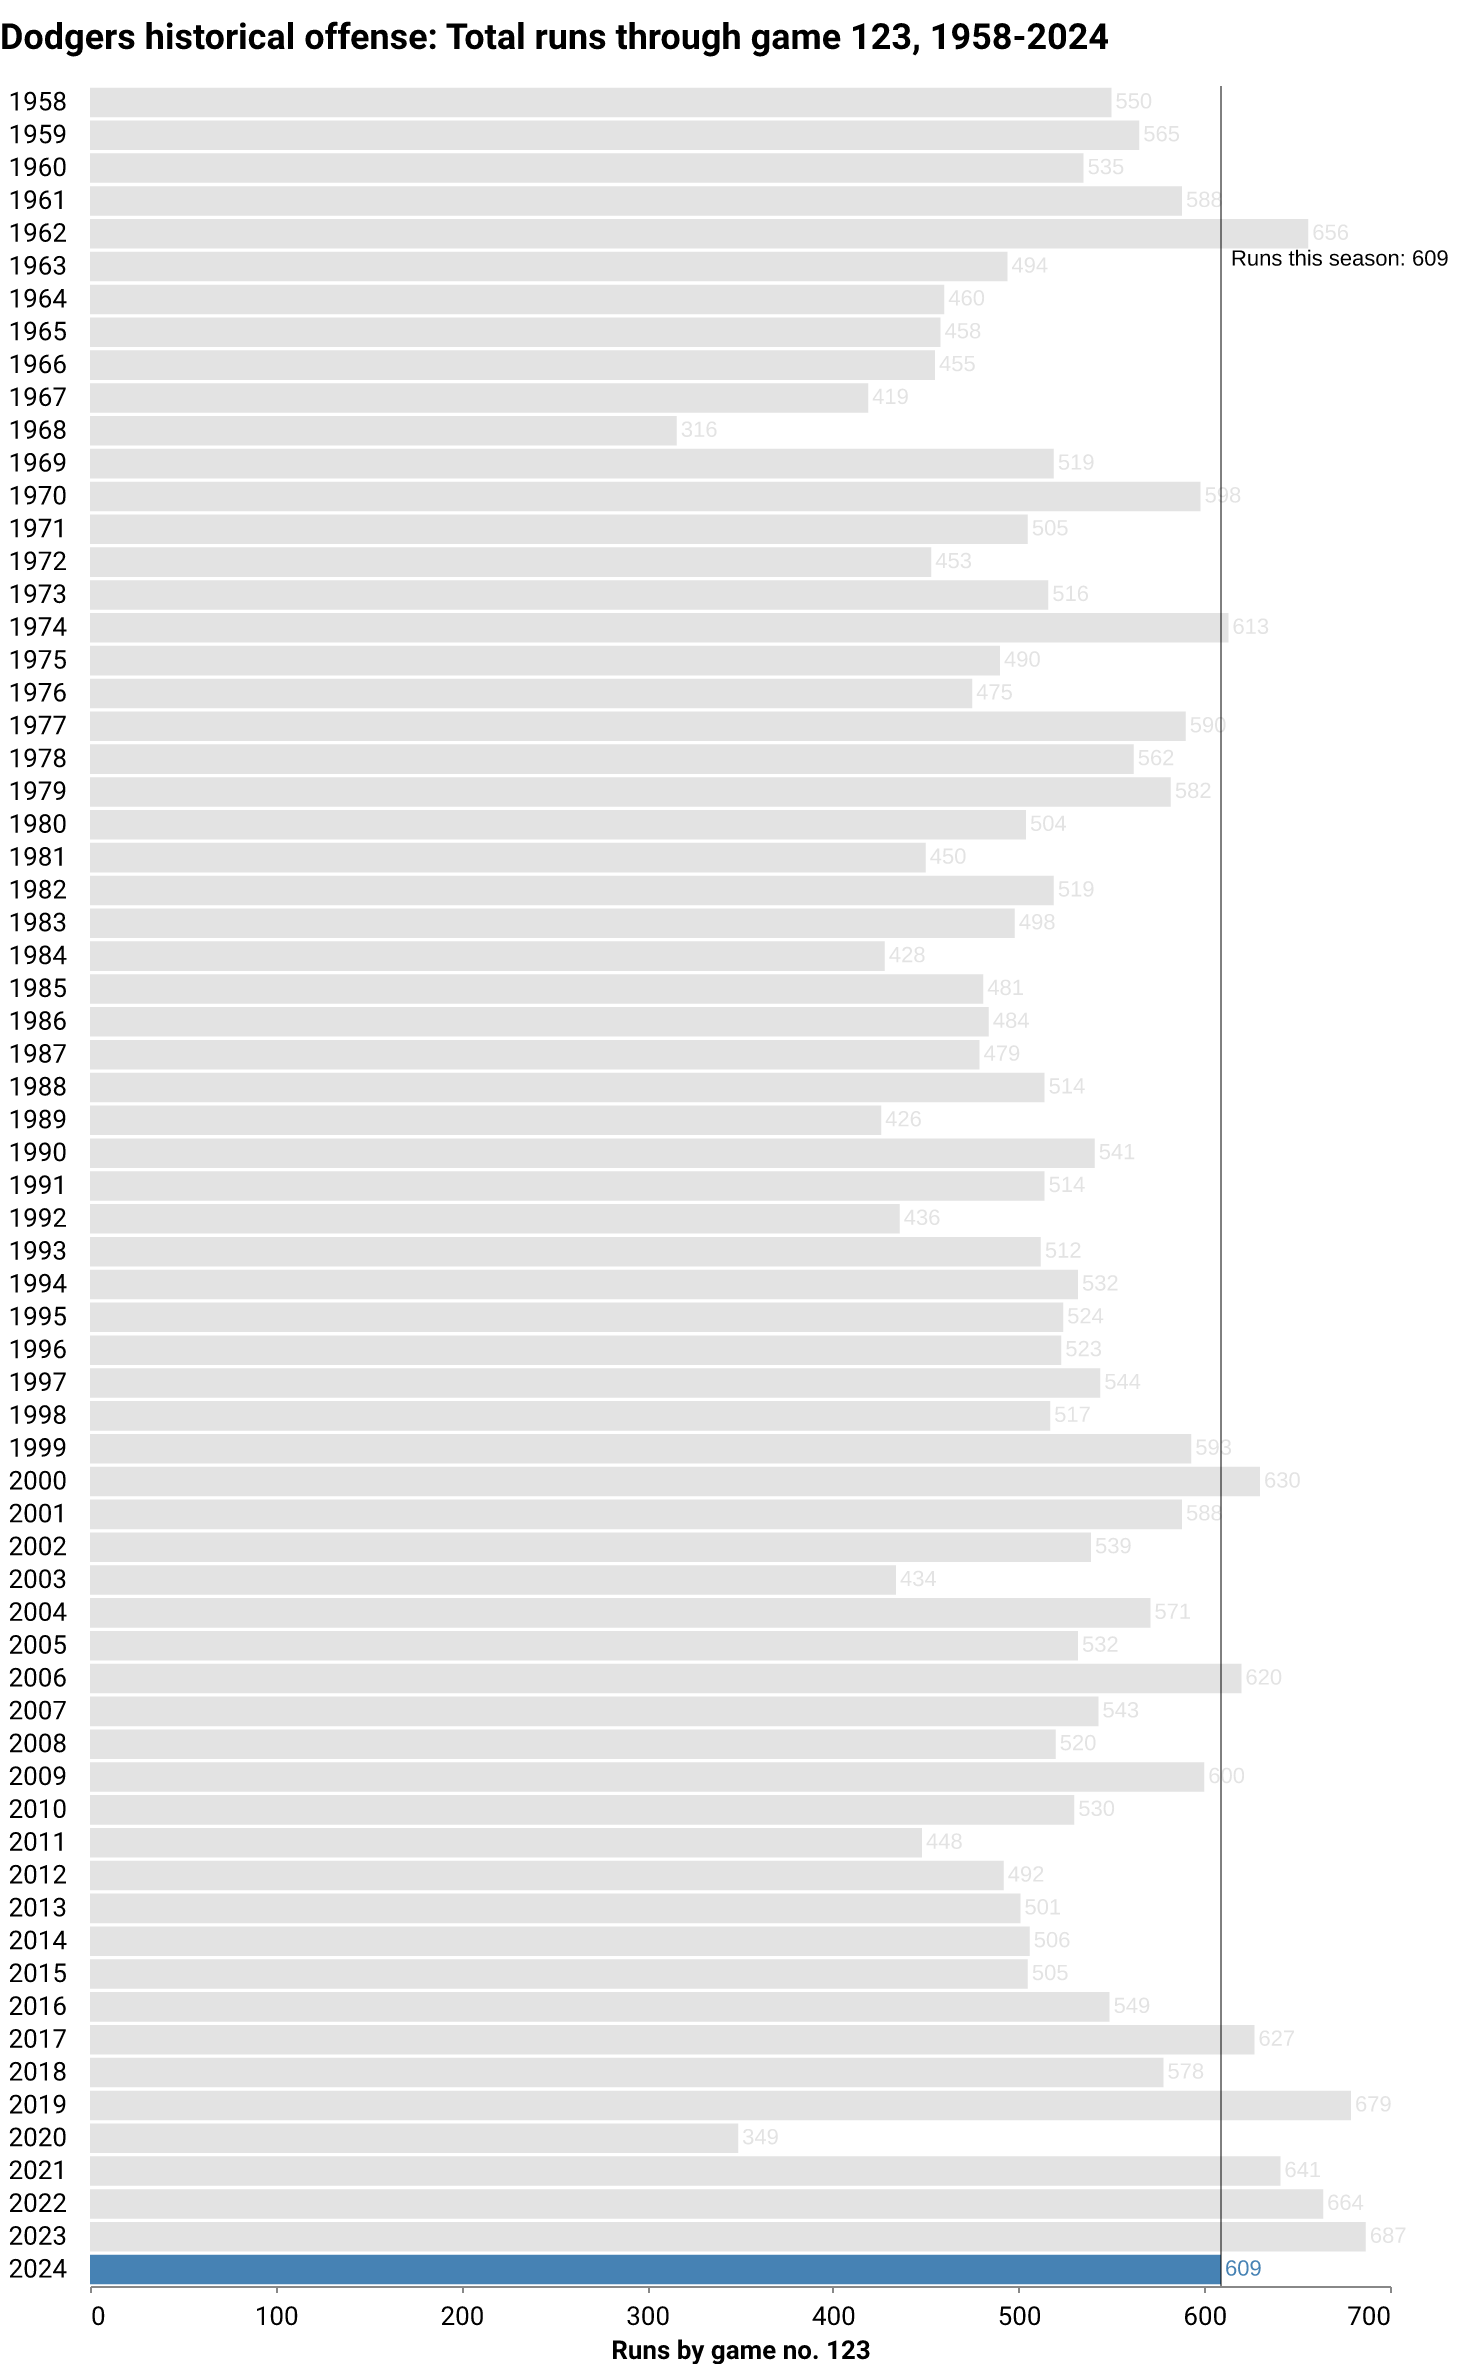
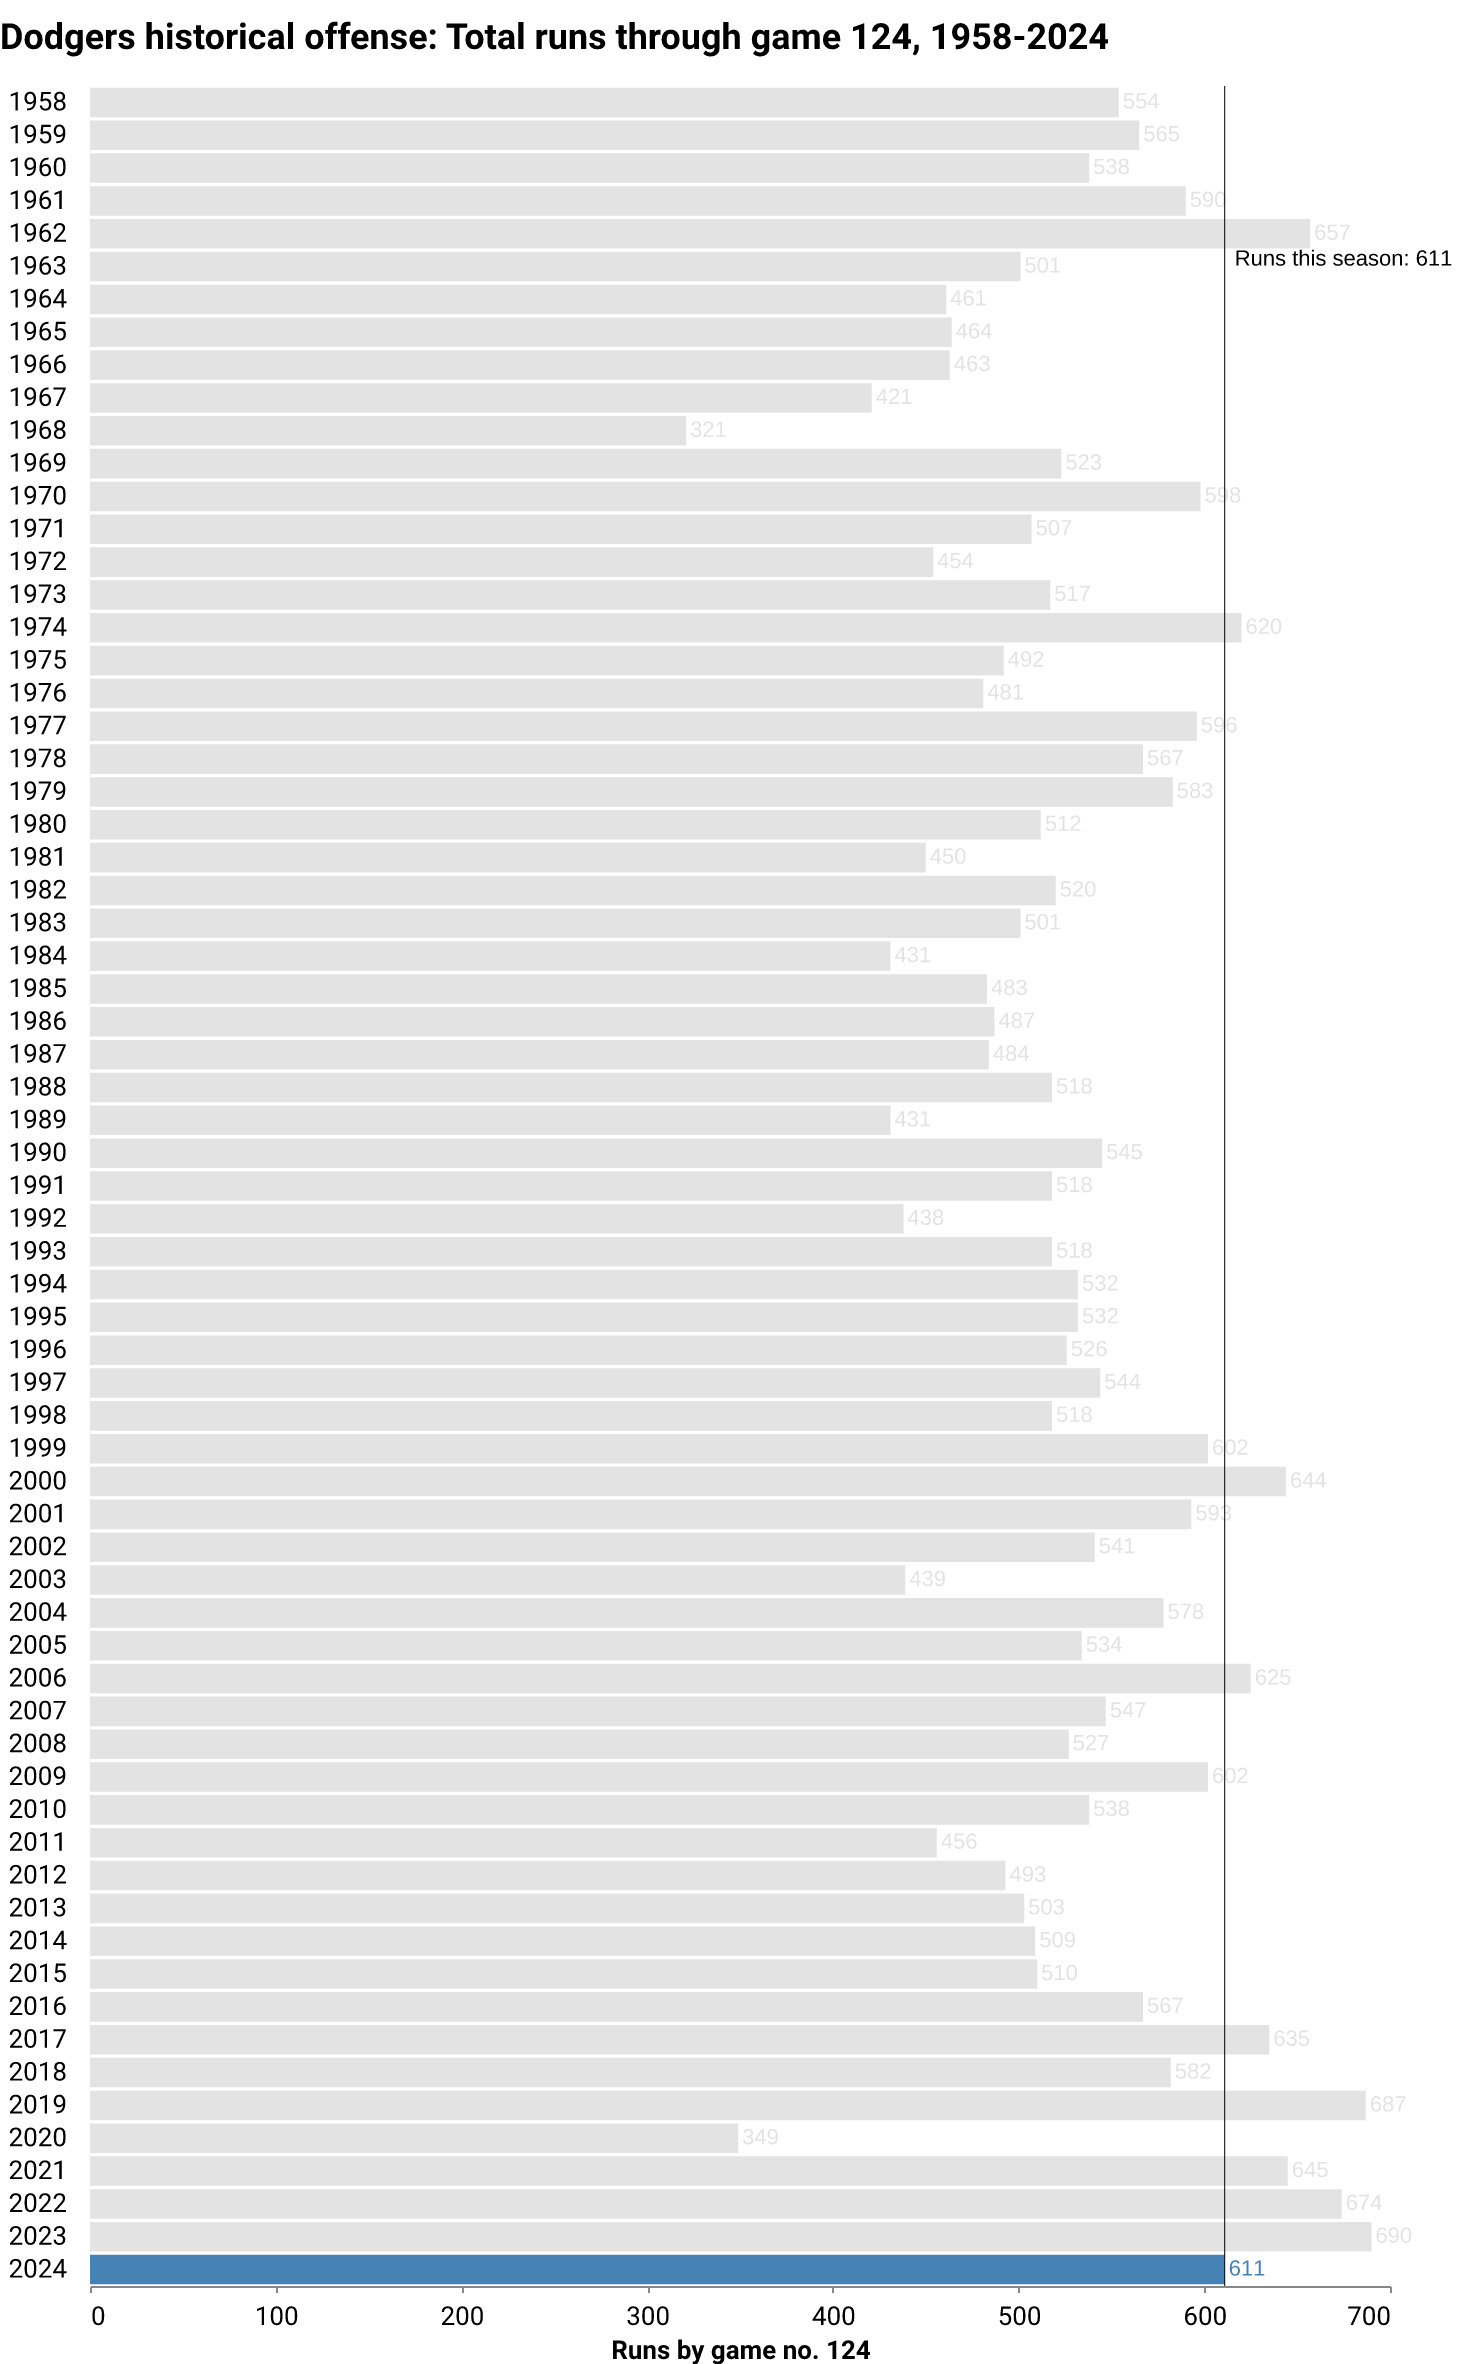
deploy: 2c9230f8b08d46898f5953f9c6615bfd0dc1a40b

diff --git a/index.html b/index.html
@@ -177,14 +177,14 @@
     
     
     
-        <i class="fa-solid fa-arrow-trend-up" style="color: #005a9c;"></i>
+        <i class="fa-solid fa-arrow-trend-down" style="color: #ef3e42;"></i>
     
 </div>
 <h1 class="headline">How are the Dodgers doing?</h1>
 <p class="subhead">
     
     
-    <span class="highlight">LOS ANGELES</span> <span class="updated">(August 18)</span> — After <span class="highlight">123</span> games this season, the Dodgers are in <span class="highlight">1st</span> place in the National League West division. The team has compiled a <span class="highlight">72-51</span> record, winning <span class="highlight">59%</span> of its games so far. The last game was a <span class="highlight">7-6</span> away <span class="highlight">win</span> against the St. Louis Cardinals in front of <span class="highlight">38,485</span> fans. They've won <span class="highlight">6 of the last 10</span>.
+    <span class="highlight">LOS ANGELES</span> <span class="updated">(August 18)</span> — After <span class="highlight">124</span> games this season, the Dodgers are in <span class="highlight">1st</span> place in the National League West division. The team has compiled a <span class="highlight">72-52</span> record, winning <span class="highlight">57%</span> of its games so far. The last game was a <span class="highlight">2-5</span> away <span class="highlight">loss</span> against the St. Louis Cardinals in front of <span class="highlight">41,929</span> fans. They've won <span class="highlight">6 of the last 10</span>.
 </p>
 </div>
 
@@ -222,10 +222,10 @@
             Losses
           </div>
           <div class="card-body">
-            <p class="card-text">51</p>
+            <p class="card-text">52</p>
           </div>
           <div class="card-footer text-muted">
-        This point last season: 47
+        This point last season: 48
           </div>
         </div>
       </div>
@@ -238,10 +238,10 @@
             Record
           </div>
           <div class="card-body">
-            <p class="card-text">72-51</p>
+            <p class="card-text">72-52</p>
           </div>
           <div class="card-footer text-muted">
-        This point last season: 76-47
+        This point last season: 76-48
           </div>
         </div>
       </div>
@@ -254,10 +254,10 @@
             Win percentage
           </div>
           <div class="card-body">
-            <p class="card-text">59%</p>
+            <p class="card-text">57%</p>
           </div>
           <div class="card-footer text-muted">
-        This point last season: 62%
+        This point last season: 61%
           </div>
         </div>
       </div>
@@ -270,7 +270,7 @@
             Games up/back
           </div>
           <div class="card-body">
-            <p class="card-text">3.0</p>
+            <p class="card-text">2.0</p>
           </div>
           <div class="card-footer text-muted">
         Division rank: 1
@@ -302,7 +302,7 @@
             Runs
           </div>
           <div class="card-body">
-            <p class="card-text">609</p>
+            <p class="card-text">611</p>
           </div>
           <div class="card-footer text-muted">
         League rank: 2
@@ -318,10 +318,10 @@
             Runs against
           </div>
           <div class="card-body">
-            <p class="card-text">506</p>
+            <p class="card-text">511</p>
           </div>
           <div class="card-footer text-muted">
-        This point last season: 544
+        This point last season: 552
           </div>
         </div>
       </div>
@@ -334,10 +334,10 @@
             Run differential
           </div>
           <div class="card-body">
-            <p class="card-text">103</p>
+            <p class="card-text">100</p>
           </div>
           <div class="card-footer text-muted">
-        This point last season: 143
+        This point last season: 138
           </div>
         </div>
       </div>
@@ -408,7 +408,7 @@
             Batting average
           </div>
           <div class="card-body">
-            <p class="card-text">.253</p>
+            <p class="card-text">.252</p>
           </div>
           <div class="card-footer text-muted">
         Last decade average: .253
@@ -424,7 +424,7 @@
             Home runs
           </div>
           <div class="card-body">
-            <p class="card-text">165</p>
+            <p class="card-text">166</p>
           </div>
           <div class="card-footer text-muted">
         League rank: 1
@@ -456,7 +456,7 @@
             On-base percentage
           </div>
           <div class="card-body">
-            <p class="card-text">.331</p>
+            <p class="card-text">.330</p>
           </div>
           <div class="card-footer text-muted">
         Last decade average: .332
@@ -472,10 +472,10 @@
             Stolen bases
           </div>
           <div class="card-body">
-            <p class="card-text">83</p>
+            <p class="card-text">85</p>
           </div>
           <div class="card-footer text-muted">
-        League rank: 9
+        League rank: 8
           </div>
         </div>
       </div>
@@ -488,7 +488,7 @@
             Stolen bases/game
           </div>
           <div class="card-body">
-            <p class="card-text">0.67</p>
+            <p class="card-text">0.69</p>
           </div>
           <div class="card-footer text-muted">
         Rate all last season: 0.65
@@ -598,7 +598,7 @@
             Strikeouts
           </div>
           <div class="card-body">
-            <p class="card-text">1061</p>
+            <p class="card-text">1062</p>
           </div>
           <div class="card-footer text-muted">
         League rank: 6
@@ -614,7 +614,7 @@
             Walks
           </div>
           <div class="card-body">
-            <p class="card-text">377</p>
+            <p class="card-text">379</p>
           </div>
           <div class="card-footer text-muted">
         League rank: 11
@@ -630,7 +630,7 @@
             ERA
           </div>
           <div class="card-body">
-            <p class="card-text">3.77</p>
+            <p class="card-text">3.78</p>
           </div>
           <div class="card-footer text-muted">
         League rank: 5
@@ -708,7 +708,7 @@
     </div>
 </div>
 
-  <p class="dated">Notes: Last updated August 18, 2024, 12:03 AM PT. More <a href="https://github.com/stiles/dodgers/blob/main/README.md">about the data</a>.</p>
+  <p class="dated">Notes: Last updated August 18, 2024, 4:03 AM PT. More <a href="https://github.com/stiles/dodgers/blob/main/README.md">about the data</a>.</p>
   
 </div>
 
